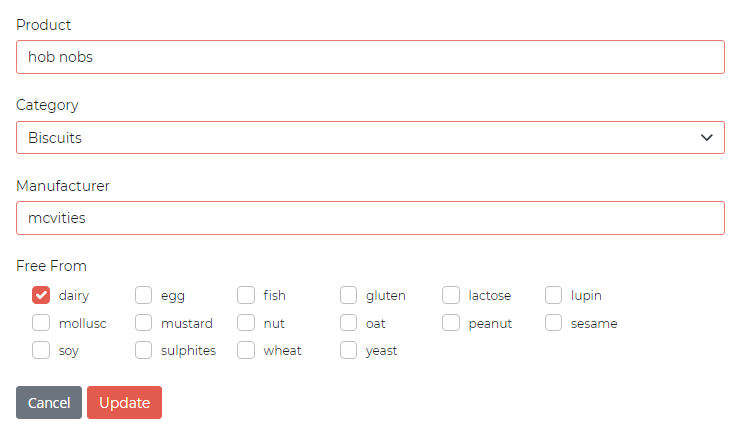
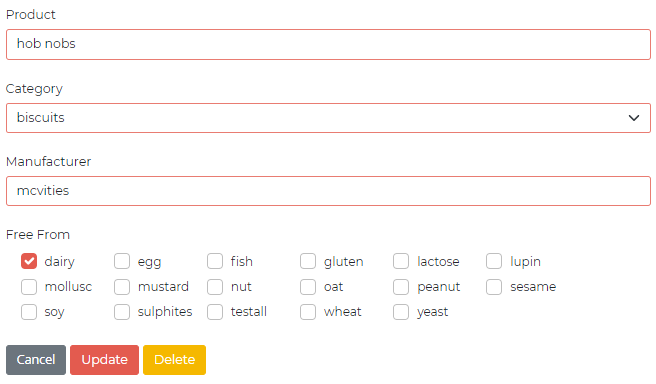
update formatting, add product delete confirm to Features section

diff --git a/README.md b/README.md
@@ -336,44 +336,48 @@ Resizes if the user is not signed in and add button is not displayed:
 * **Register**, displays form allowing the user to register:  
 <img src="/static/testing/register.png" width="500px" style="margin: 10px;"> 
 
-* **Product View**, displays product details. If the user is signed in, allows review and rating to 
+* **Product View**, displays **Product** details. If the user is signed in, allows review and rating to 
 be added or updated.   
-**Add** button enables the user to review and rate product.  
-**Add** button text is changed to **Update** if the user has already reviewed the product.  
-**Update** button updates review and rating if product has already been reviewed by the user.  
+**Add** button enables the user to review and rate **Product**.  
+**Add** button text is changed to **Update** if the user has already reviewed the **Product**.  
+**Update** button updates review and rating if **Product** has already been reviewed by the user.  
 **Product Edit** button links to **Product Edit** page.  
 User reviews are shown below in the **User Reviews Table**:  
 <img src="/static/testing/product-view-add-review.png" width="500px" style="margin: 10px;">  
 <img src="/static/testing/product-view-update-review.png" width="500px%" style="margin: 10px;">  
 
-* **Product Edit**, displays form allowing product to be edited:  
+* **Product Edit**, displays form allowing **Product** to be edited. If the **Product** has been added by the 
+signed in **User**, or if the signed in **User** has **Admin** privileges, **Delete** button is shown:  
 <img src="/static/testing/product-edit.png" width="500px" style="margin: 10px;">  
 
-* **Product Add**, displays form allowing product to be added:  
+* **Product Delete Confirm**, displays form confirming **Product** should be deleted:  
+<img src="/static/testing/product-delete-confirm.png" width="800px" style="margin: 10px;">  
+
+* **Product Add**, displays form allowing **Product** to be added:  
 <img src="/static/testing/product-add.png" width="500px" style="margin: 10px;">  
 
-* **Allergen Add**, displays form allowing Allergen to be added:  
+* **Allergen Add**, displays form allowing **Allergen** to be added:  
 <img src="/static/testing/allergen-add.png" width="500px" style="margin: 10px;">  
 
-* **Allergen Edit**, displays form allowing Allergen to be edited:  
+* **Allergen Edit**, displays form allowing **Allergen** to be edited:  
 <img src="/static/testing/allergen-edit.png" width="500px" style="margin: 10px;">  
 
-* **Allergen Delete**, displays form allowing Allergen to be deleted:  
+* **Allergen Delete**, displays form allowing **Allergen** to be deleted:  
 <img src="/static/testing/allergen-delete.png" width="500px" style="margin: 10px;">  
 
-* **Allergen Delete Confirm**, displays form confirming Allergen should be deleted:  
+* **Allergen Delete Confirm**, displays form confirming **Allergen** should be deleted:  
 <img src="/static/testing/allergen-delete-confirm.png" width="800px" style="margin: 10px;">  
 
-* **Category Add**, displays form allowing Category to be added:  
+* **Category Add**, displays form allowing **Category** to be added:  
 <img src="/static/testing/category-add.png" width="500px" style="margin: 10px;">  
 
-* **Category Edit**, displays form allowing Category to be edited:  
+* **Category Edit**, displays form allowing **Category** to be edited:  
 <img src="/static/testing/category-edit.png" width="500px" style="margin: 10px;">  
 
-* **Category Delete**, displays form allowing Category to be deleted:  
+* **Category Delete**, displays form allowing **Category** to be deleted:  
 <img src="/static/testing/category-delete.png" width="500px" style="margin: 10px;">  
 
-* **Category Delete Confirm**, displays form confirming Category should be deleted:  
+* **Category Delete Confirm**, displays form confirming **Category** should be deleted:  
 <img src="/static/testing/category-delete-confirm.png" width="800px" style="margin: 10px;">  
 
 * **Footer Contact Developer Link**, links to **Contact Developer** form:  

diff --git a/TESTING.md b/TESTING.md
@@ -235,7 +235,9 @@ been succesfully submitted, a message is displayed at the top of the screen:
 
 ## Manual Testing ##
 The site has been manually tested thoroughly over a 3 week period. See [Bugs Fixed During Testing](#bugs-fixed-during-testing) 
-for bugs uncovered and fixed during the manual testing process.
+for bugs uncovered and fixed during the manual testing process. Please note that an account with **Admin** privileges has been 
+created for testing purposes. This will facilitate testing of features which require **Admin** privileges. 
+The username is *testadmin1* and the password is *testadmin1*.
 
 
 ### Features ###
@@ -298,8 +300,12 @@ User reviews are displayed as intended below in the **User Reviews Table**:
 <img src="/static/testing/product-view-add-review-new.png" width="500px" style="margin: 10px;">  
 <img src="/static/testing/product-view-update-review-new.png" width="500px" style="margin: 10px;">  
   
-* **Product Edit** form functions correctly (including [Form Validation](#form-validation) and button **Hover Styling**):  
+* **Product Edit** form functions correctly (including [Form Validation](#form-validation) and button **Hover Styling**). 
+**Delete** button is shown if the product has been added by the signed in **User**, or if the signed in **User** has **Admin** privileges:  
 <img src="/static/testing/product-edit.png" width="500px" style="margin: 10px;">  
+
+* **Product Delete Confirm** form functions correctly (including button **Hover Styling**):  
+<img src="/static/testing/product-delete-confirm.png" width="800px" style="margin: 10px;">  
 
 * **Product Add** form functions correctly (including [Form Validation](#form-validation) and button **Hover Styling**):  
 <img src="/static/testing/product-add.png" width="500px" style="margin: 10px;">  
